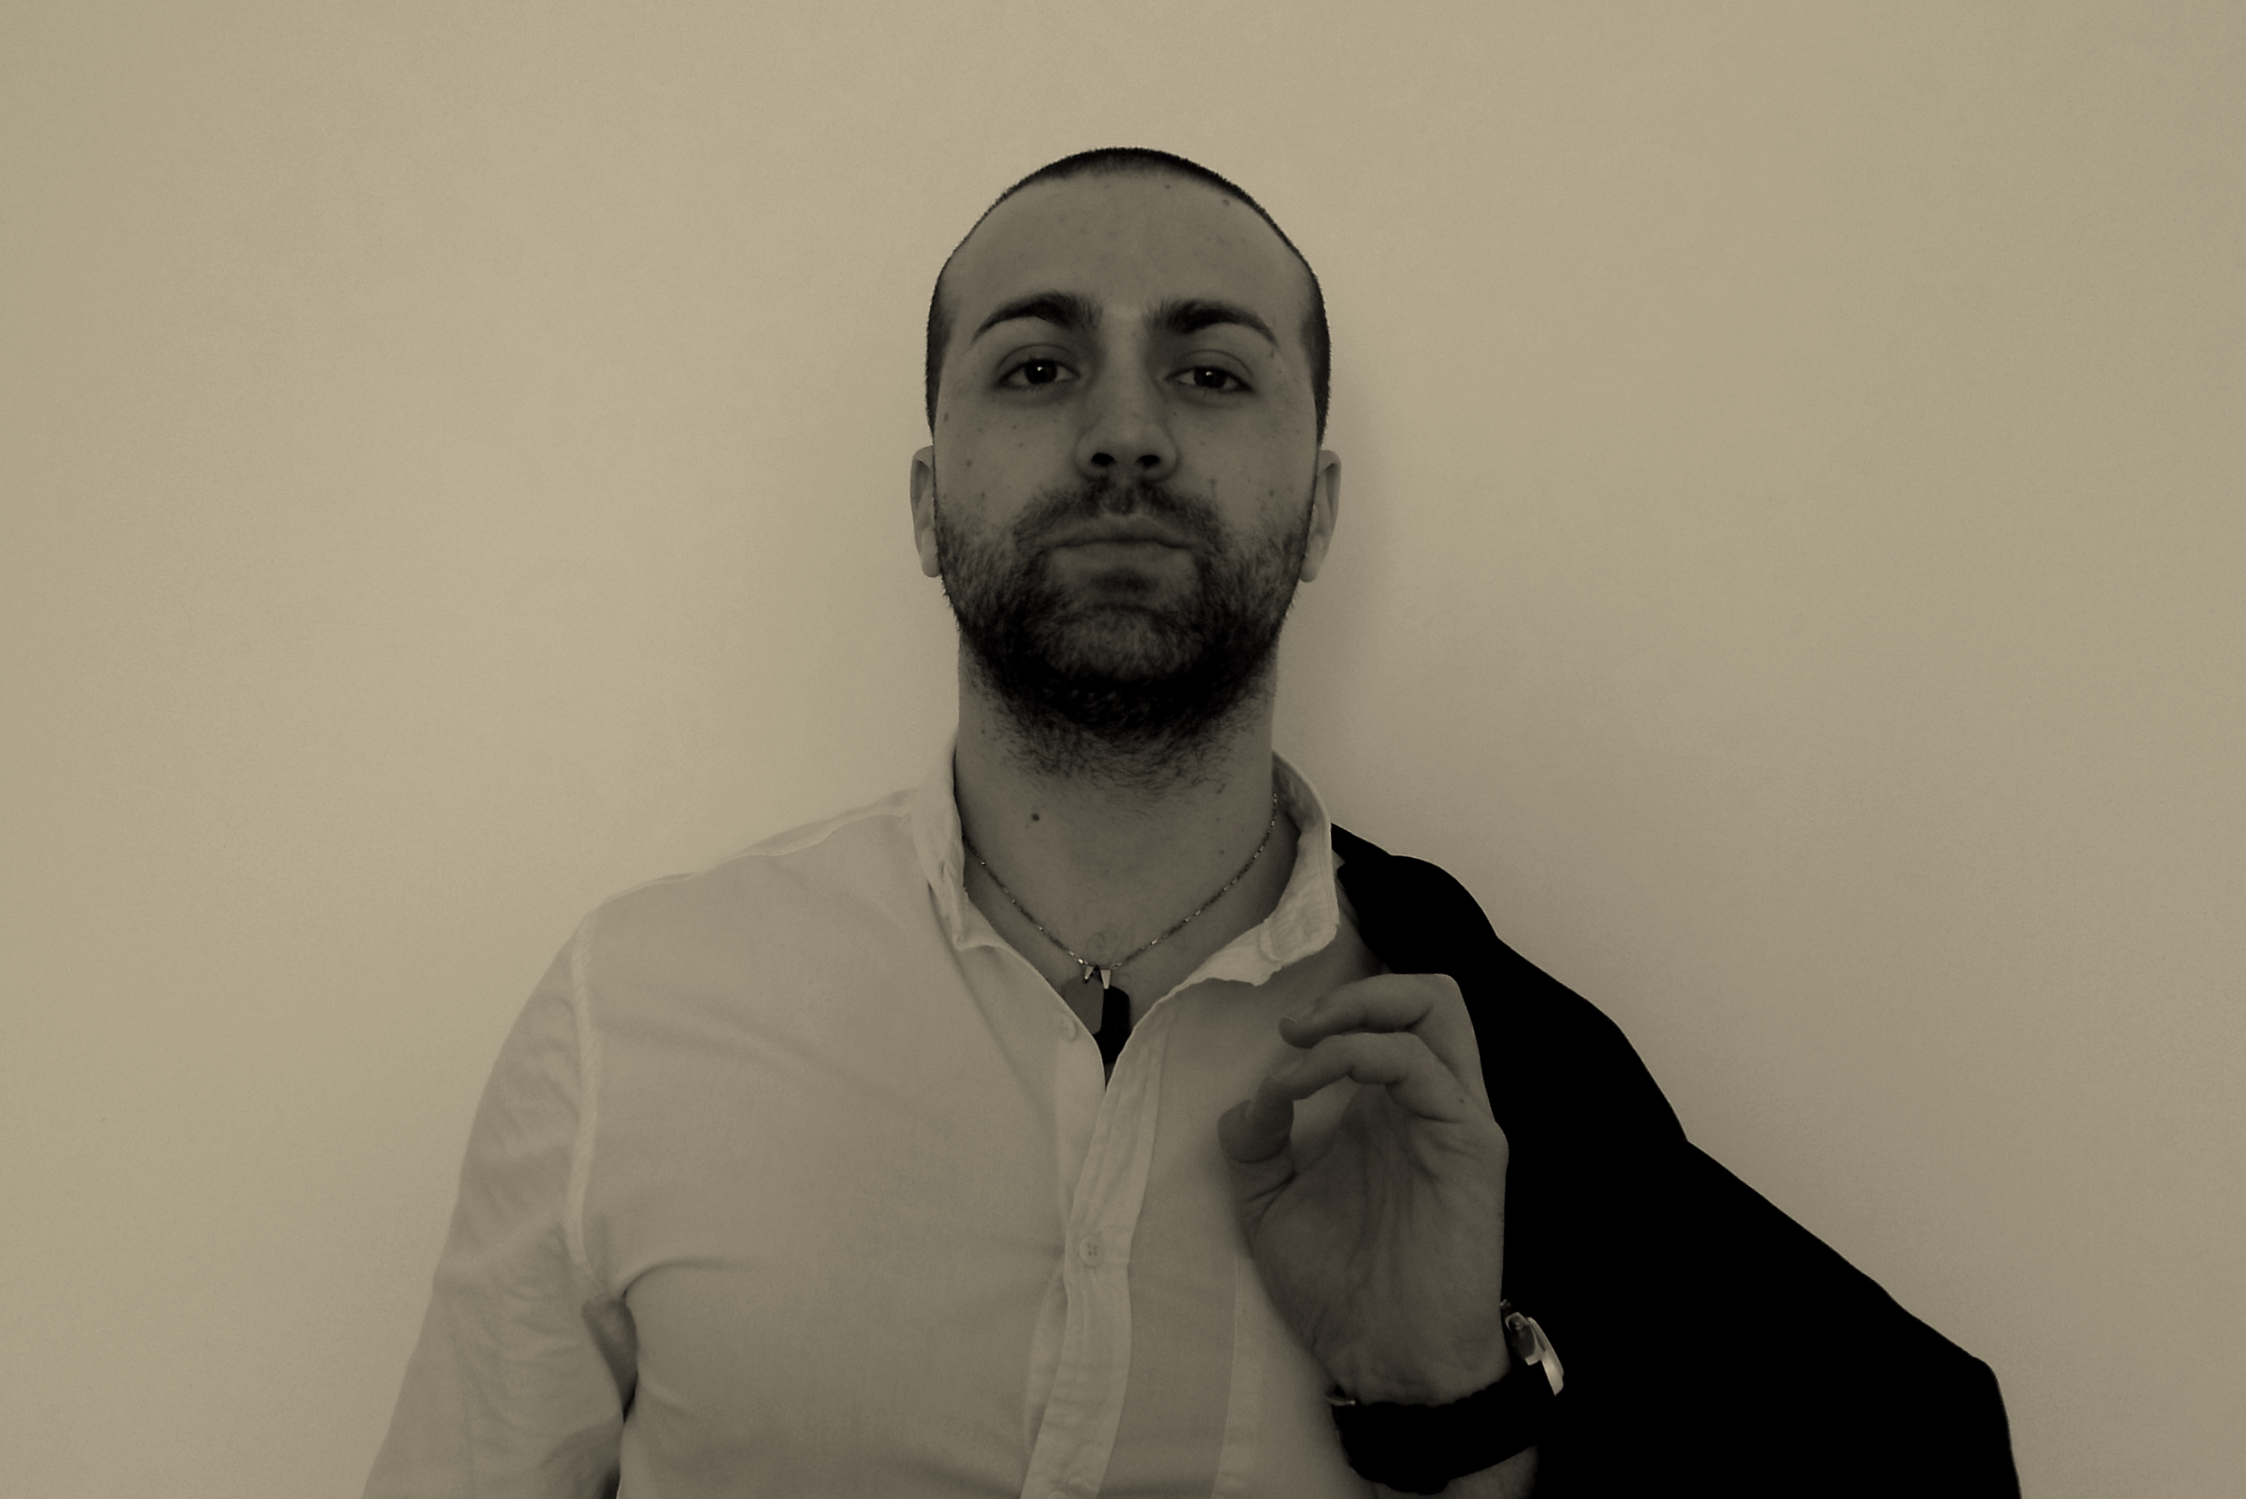
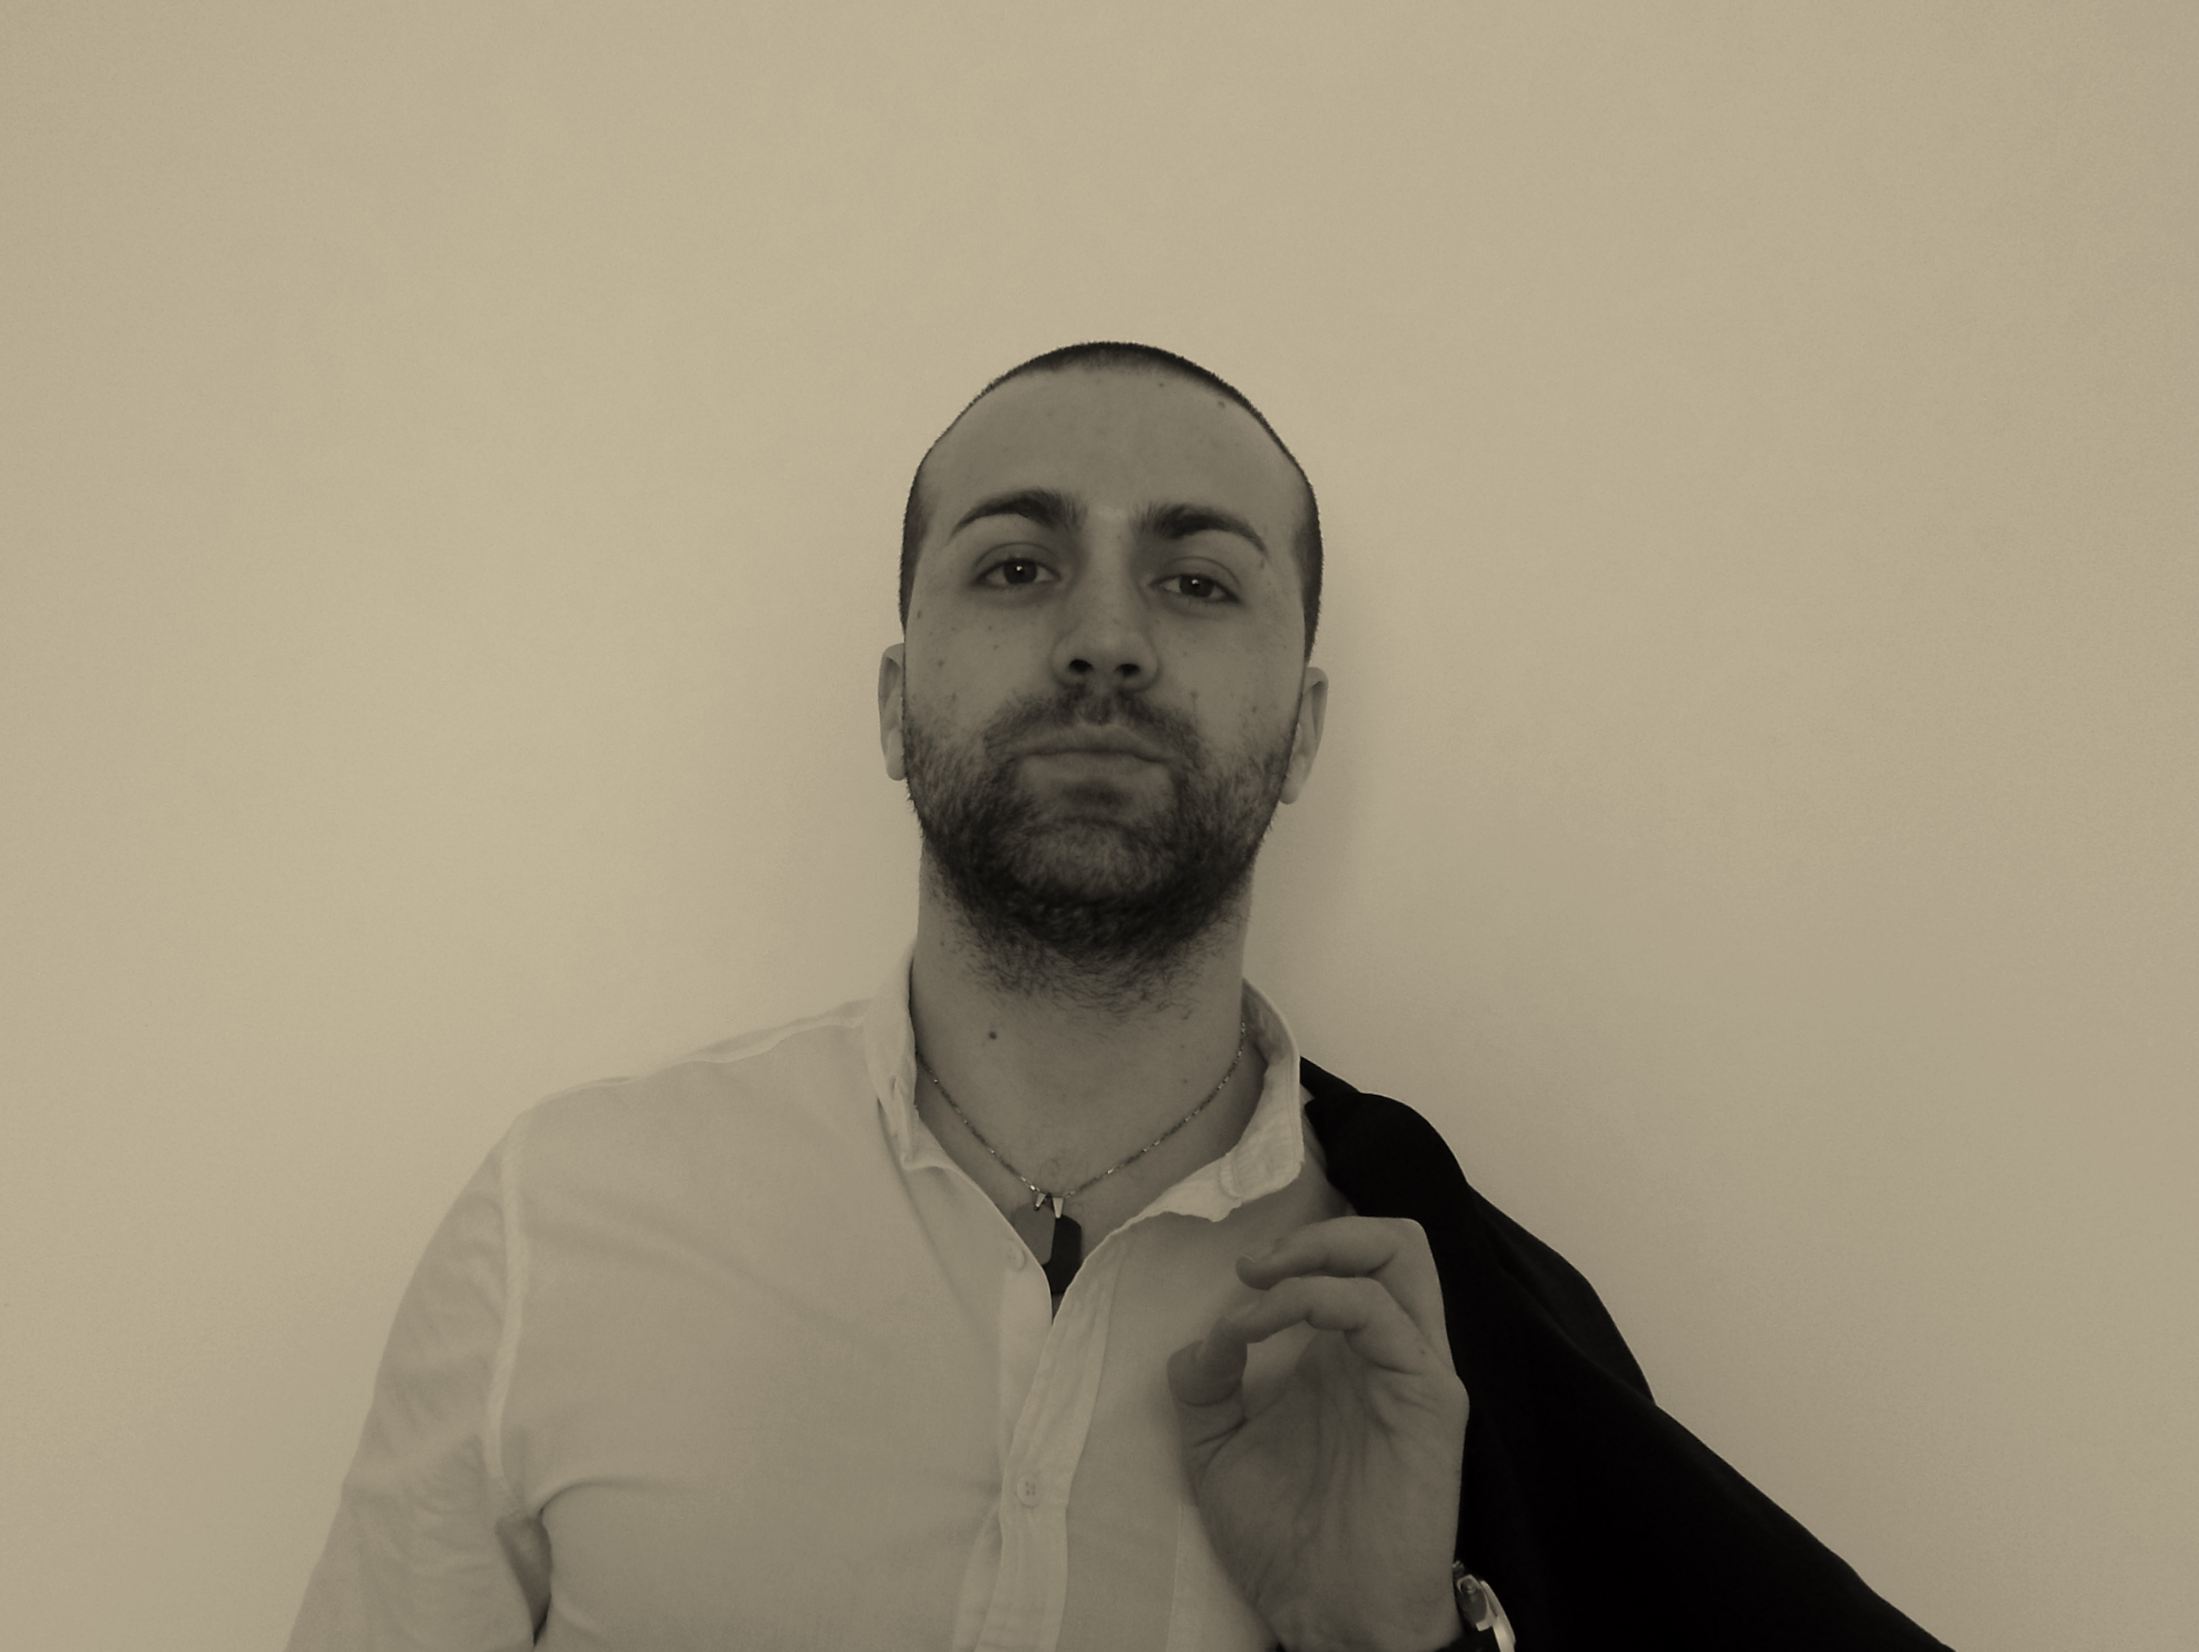
better image on welcome navbar

Changed region(s): [[0.2188, 0.0923, 0.9062, 1.0]]

diff --git a/app/styles/components/slogan.scss b/app/styles/components/slogan.scss
@@ -4,8 +4,10 @@
 .slogan {
   color: $white;
   > div {
+    width: 100%;
     @extend %text-center;
     position: absolute;
+    display: block;
     font-weight: 600;
     top: 90%;
     @media (max-width: $mobile) {

diff --git a/app/styles/components/navbar.scss b/app/styles/components/navbar.scss
@@ -23,7 +23,7 @@
 .navbar-overlay {
   width: 100%;
   height: 100%;
-  background: $black-70;
+  background: rgba(0, 0, 0, 0.4);
   position: relative;
 }
 
